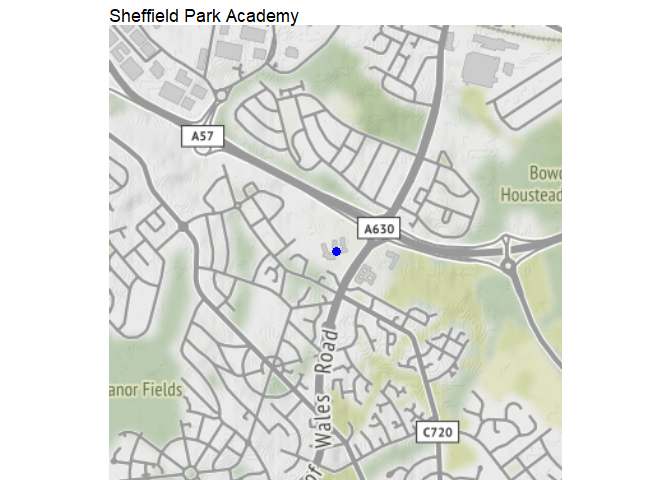
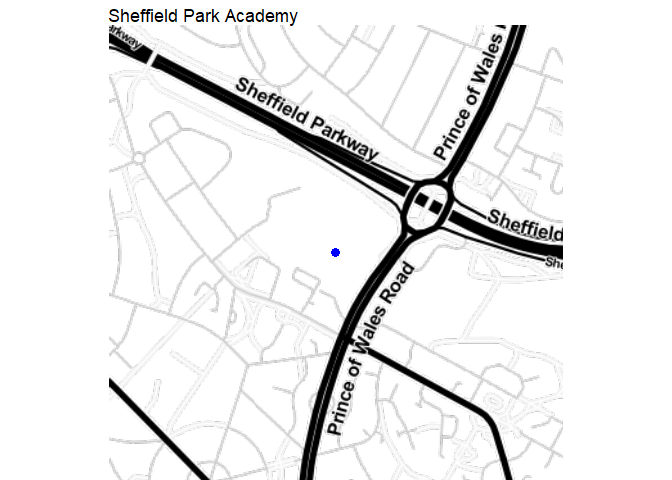
AGOL location services and ArcGIS Pro

diff --git a/index.md b/index.md
@@ -79,23 +79,21 @@ shef_bbox <- st_buffer(sf_city_boundary, 1000) %>%
   as.numeric()
 
 # Get a basemap
-shef_basemap <- get_map(location = shef_bbox, 
-                   zoom = 11,
-                   maptype = 'terrain-background', 
-                   source = 'stamen')
+shef_basemap <- get_stamenmap(bbox = shef_bbox, zoom = 11, maptype = "toner")
 
 # Plot
 ggmap(shef_basemap) +
   geom_sf(data = sf_secondary_schools, mapping = aes(),
           colour = "blue", inherit.aes = FALSE) +
   geom_sf(data = sf_city_boundary, mapping = aes(), 
-          fill = NA, colour = "black", size = 1, inherit.aes = FALSE) +
+          fill = NA, colour = "brown", size = 1, inherit.aes = FALSE) +
   ggtitle("Sheffield Secondary Schools") +
   theme_void()
 ```
 
-![](index_files/figure-gfm/school-features-1.png)<!-- --> For the
-purpose of comparing isochrones created from different network
+![](index_files/figure-gfm/school-features-1.png)<!-- -->
+
+For the purpose of comparing isochrones created from different network
 datasets/services and software, we’ll focus on Sheffield Park Academy.
 
 ``` r
@@ -103,15 +101,12 @@ datasets/services and software, we’ll focus on Sheffield Park Academy.
 sf_park <- filter(sf_secondary_schools, school_org == "Sheffield Park Academy")
 
 # Get the bounding box (coordinates) for Park Academy
-park_bbox <- st_buffer(sf_park, 1000) %>% 
+park_bbox <- st_buffer(sf_park, 500) %>% 
   st_bbox() %>%
   as.numeric()
 
 # Get a basemap
-park_basemap <- get_map(location = park_bbox, 
-                        zoom = 14, 
-                        maptype = 'terrain-background',
-                        source = 'stamen')
+park_basemap <- get_stamenmap(bbox = park_bbox, zoom = 15, maptype = "toner-hybrid")
 
 # Plot
 ggmap(park_basemap) +
@@ -125,7 +120,63 @@ ggmap(park_basemap) +
 
 ## AGOL logistic service & ArcGIS Pro
 
-*TODO: get isochrones from Portal and note from Word document*
+I’ve added a feature layer on Portal of isochrones I created using
+ArcGIS Pro and the AGOL logistic service.There are some very rough notes
+on what I did in the
+[TakeawaysDataAndApp.docx](https://1drv.ms/w/s!AhGALyAD2g76ibwuUw9xeggd29iV4g?e=Coiglw)
+under “Appendix i) Breadcrumbs - School Isochrones”.
+
+``` r
+# URL for secondary school isochrones from the Council's Portal (with a token!)
+isochrones_url  <- str_c(
+  "https://sheffieldcitycouncil.cloud.esriuk.com/server/rest/services/Hosted/",
+  "Secondary_school_400m_isochrome/FeatureServer/0?token=SCuzHcThaOEkh6ewOOmp",
+  "NYTOa9AckubYSesbQEF9RRM5jM5ruaWfCAkS7hRSJvwBpDtBhJbiCB_eFZH-REj9z1Tu7jOGF2",
+  "-atu5AgJGrPMwm8v_VR96qjHySeRHp2hSNGXQ9pAWAu6QCTsOitAIgs_fJD5pZVw4fwxXSg0es",
+  "pjtFC0l1tSnExQ2tFyA3UR5zArYLZDV_8DrwMySPs4_0rzwWR4gShptQqPErbwkY078.")
+
+# Get secondary school isochrones as simple features with WSG84 coordinates
+sf_isochrones <- arc.open(isochrones_url) %>% 
+  arc.select() %>% 
+  arc.data2sf() %>% 
+  st_transform(crs = 4326)
+
+# Plot
+ggmap(shef_basemap) +
+  geom_sf(data = sf_isochrones, mapping = aes(),
+          colour = "blue", inherit.aes = FALSE) +
+  geom_sf(data = sf_secondary_schools, mapping = aes(),
+          colour = "blue", size = 0.5, inherit.aes = FALSE) +
+  geom_sf(data = sf_city_boundary, mapping = aes(), 
+          fill = NA, colour = "brown", size = 1, inherit.aes = FALSE) +
+  ggtitle("Sheffield Secondary School 400m Iscochrones") +
+  theme_void()
+```
+
+![](index_files/figure-gfm/agol-pro-1.png)<!-- -->
+
+Focusing on the isochrone for our example, Sheffield Park Academy:
+
+``` r
+# Get a subset of just Sheffield Park Academy isochrone as a simple feature
+sf_park_isochrone <- filter(sf_isochrones, facilityid == 28)
+
+# Plot
+ggmap(park_basemap) +
+  geom_sf(data = sf_park_isochrone, mapping = aes(),
+          colour = "blue", fill = NA, inherit.aes = FALSE) +
+  geom_sf(data = sf_park, mapping = aes(),
+          colour = "blue", size = 3, inherit.aes = FALSE) +
+  ggtitle("Sheffield Park Academy 400m Isochrone") +
+  theme_void()
+```
+
+![](index_files/figure-gfm/agol-pro-park-1.png)<!-- -->
+
+The roundabout on the Prince of Wales Road has a walkway that goes
+underneath it but above the Parkway. The AGOL location service hasn’t
+included this walkway so the isochrone stops incorrectly short of the
+Parkway.
 
 ## openrouteservice & R
 
